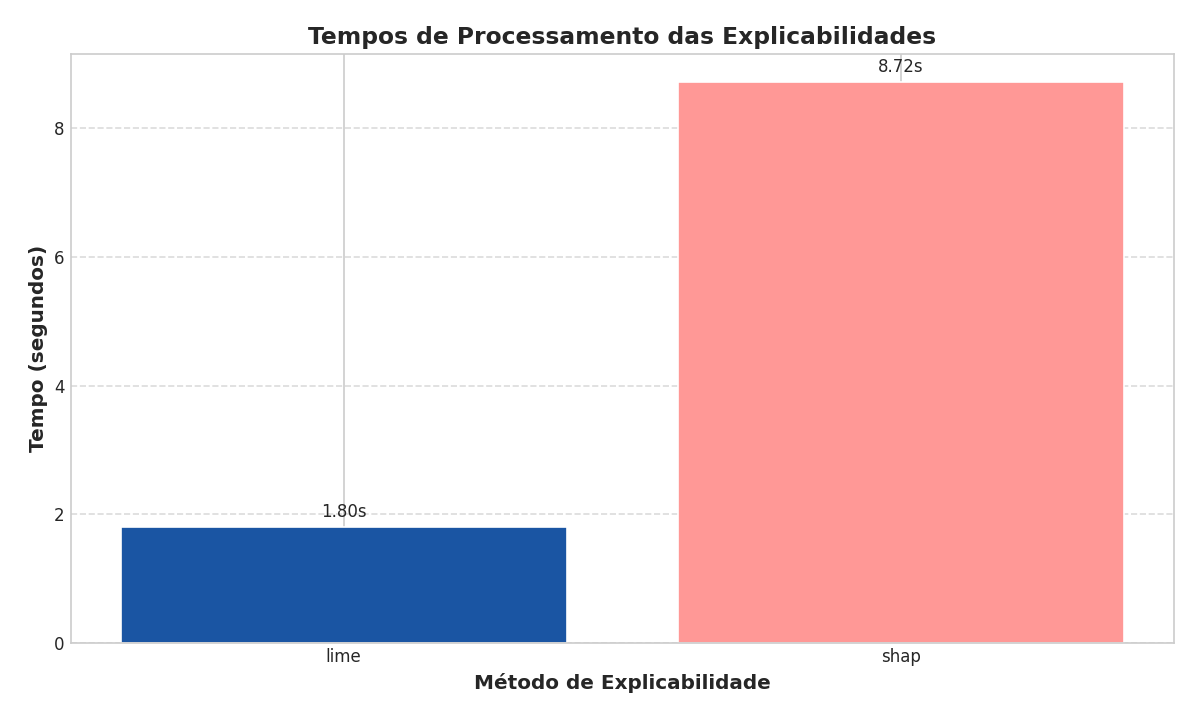
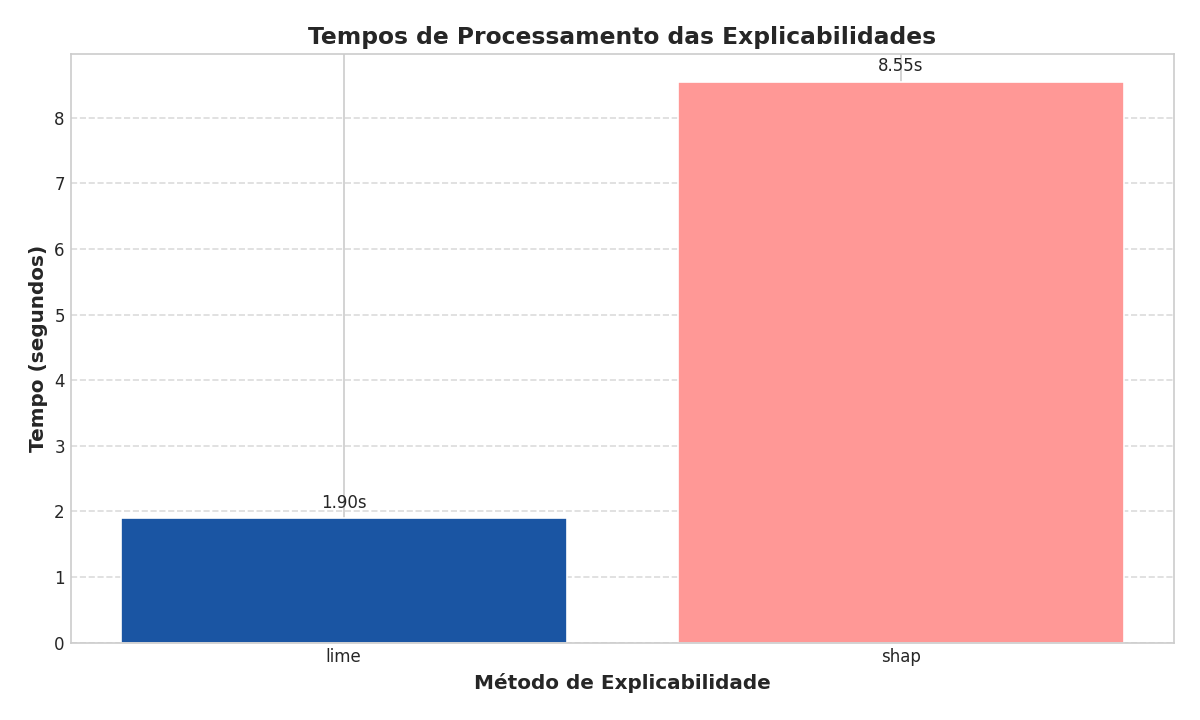
antes de verificar explicabilidade

diff --git a/CLFE/client/reports/client_1/final_report.html b/CLFE/client/reports/client_1/final_report.html
@@ -142,11 +142,11 @@
 <tr><th>Ronda</th><th>Fit</th><th>Evaluate</th><th>Lime</th><th>Shap</th></tr>
 </thead>
 <tbody>
-<tr><td>1</td><td>0.4295</td><td>0.0015</td><td>0.0000</td><td>0.0000</td></tr>
-<tr><td>2</td><td>0.0626</td><td>0.0014</td><td>0.0000</td><td>0.0000</td></tr>
-<tr><td>3</td><td>0.0742</td><td>0.0017</td><td>0.0000</td><td>0.0000</td></tr>
-<tr><td>4</td><td>0.0613</td><td>0.0015</td><td>0.0000</td><td>0.0000</td></tr>
-<tr><td>5</td><td>0.0624</td><td>0.0015</td><td>1.8787</td><td>8.5301</td></tr>
+<tr><td>1</td><td>0.4288</td><td>0.0015</td><td>0.0000</td><td>0.0000</td></tr>
+<tr><td>2</td><td>0.0657</td><td>0.0015</td><td>0.0000</td><td>0.0000</td></tr>
+<tr><td>3</td><td>0.0649</td><td>0.0016</td><td>0.0000</td><td>0.0000</td></tr>
+<tr><td>4</td><td>0.0611</td><td>0.0014</td><td>0.0000</td><td>0.0000</td></tr>
+<tr><td>5</td><td>0.0667</td><td>0.0017</td><td>1.8903</td><td>8.4796</td></tr>
 </tbody>
 </table>
 </div></div><div class="section plot-container">
@@ -175,10 +175,6 @@
 <div class="plot-item">
 <h3>Accuracy Comparison</h3>
 <img src="accuracy_comparison.png" alt="Accuracy Comparison" />
-</div>
-<div class="plot-item">
-<h3>Comparação de Accuracy</h3>
-<img src="accuracy_comparison.png" alt="Comparação de Accuracy" />
 </div>
 </div>
 </div>
@@ -242,7 +238,7 @@
             </ul>
         </div>
 
-        <p><em>Relatório gerado automaticamente em 2025-05-04 07:23:52</em></p>
+        <p><em>Relatório gerado automaticamente em 2025-05-04 07:34:16</em></p>
     </body>
     </html>
     

diff --git a/CLFE/client/reports/client_2/final_report.html b/CLFE/client/reports/client_2/final_report.html
@@ -142,11 +142,11 @@
 <tr><th>Ronda</th><th>Fit</th><th>Evaluate</th><th>Lime</th><th>Shap</th></tr>
 </thead>
 <tbody>
-<tr><td>1</td><td>0.4239</td><td>0.0015</td><td>0.0000</td><td>0.0000</td></tr>
-<tr><td>2</td><td>0.0613</td><td>0.0016</td><td>0.0000</td><td>0.0000</td></tr>
-<tr><td>3</td><td>0.0726</td><td>0.0016</td><td>0.0000</td><td>0.0000</td></tr>
-<tr><td>4</td><td>0.0610</td><td>0.0016</td><td>0.0000</td><td>0.0000</td></tr>
-<tr><td>5</td><td>0.0615</td><td>0.0017</td><td>1.7953</td><td>8.7243</td></tr>
+<tr><td>1</td><td>0.4271</td><td>0.0016</td><td>0.0000</td><td>0.0000</td></tr>
+<tr><td>2</td><td>0.0649</td><td>0.0016</td><td>0.0000</td><td>0.0000</td></tr>
+<tr><td>3</td><td>0.0649</td><td>0.0016</td><td>0.0000</td><td>0.0000</td></tr>
+<tr><td>4</td><td>0.0593</td><td>0.0015</td><td>0.0000</td><td>0.0000</td></tr>
+<tr><td>5</td><td>0.0655</td><td>0.0016</td><td>1.8964</td><td>8.5454</td></tr>
 </tbody>
 </table>
 </div></div><div class="section plot-container">
@@ -175,10 +175,6 @@
 <div class="plot-item">
 <h3>Accuracy Comparison</h3>
 <img src="accuracy_comparison.png" alt="Accuracy Comparison" />
-</div>
-<div class="plot-item">
-<h3>Comparação de Accuracy</h3>
-<img src="accuracy_comparison.png" alt="Comparação de Accuracy" />
 </div>
 </div>
 </div>
@@ -242,7 +238,7 @@
             </ul>
         </div>
 
-        <p><em>Relatório gerado automaticamente em 2025-05-04 07:23:52</em></p>
+        <p><em>Relatório gerado automaticamente em 2025-05-04 07:34:16</em></p>
     </body>
     </html>
     

diff --git a/CLFE/client/report_utils.py b/CLFE/client/report_utils.py
@@ -319,7 +319,8 @@ def generate_evolution_plots(history, base_reports):
                 plot_path = base_reports / plot_filename
                 plt.savefig(plot_path, dpi=120)
                 plt.close()
-                plot_files.append(plot_filename)
+                # Não adicionamos explainability_times.png à lista de plot_files
+                # para evitar que apareça na seção de evolução de métricas
                 logger.info(f"Generated plot: {plot_path}")
                 
         # 6. GRÁFICO DE COMPARAÇÃO VALIDAÇÃO vs TESTE (ACC)
@@ -587,21 +588,10 @@ def generate_html_report(history, plot_files, base_reports, client_id, dataset_p
     if plot_files:
         html_content += '<div class="evolution-plots">\n'
         for plot_file in plot_files:
-            # Filtrar: não mostrar o explainability_times.png nesta seção
-            if plot_file == 'explainability_times.png':
-                continue
-                
             plot_title = plot_file.replace('_evolution.png','').replace('.png','').replace('_', ' ').title()
             html_content += f'<div class="plot-item">\n'
             html_content += f'<h3>{plot_title}</h3>\n'
             html_content += f'<img src="{plot_file}" alt="{plot_title}" />\n'
-            html_content += '</div>\n'
-            
-        # Adicionar accuracy_comparison.png explicitamente nesta seção se existir
-        if 'accuracy_comparison.png' in os.listdir(base_reports):
-            html_content += f'<div class="plot-item">\n'
-            html_content += f'<h3>Comparação de Accuracy</h3>\n'
-            html_content += f'<img src="accuracy_comparison.png" alt="Comparação de Accuracy" />\n'
             html_content += '</div>\n'
         html_content += '</div>\n'
     else:
